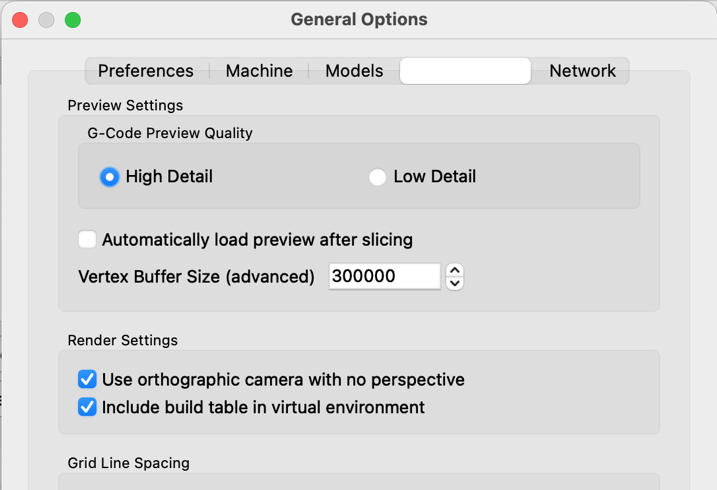
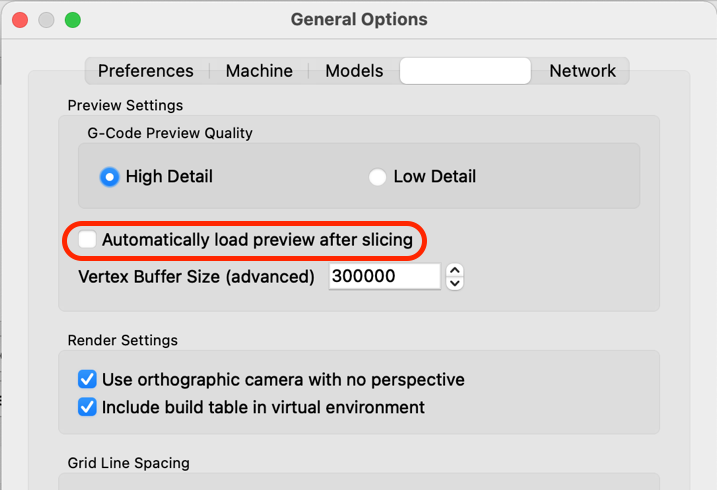
add some clues for tweaking image cropping

Changed region(s): [[0.0614, 0.4286, 0.6137, 0.551]]

diff --git a/README.md b/README.md
@@ -60,7 +60,7 @@ With [Slicer Thumbnails](https://plugins.octoprint.org/plugins/prusaslicerthumbn
 
 The thumbnail is captured from the Simplify3D application window when the sliced .gcode file **is saved**.
 
-If you prefer the non-sliced preview version, in Application **Preferences** in the *Visualization* tab, uncheck
+If you prefer the non-sliced preview version, in Application *Preferences* in the *Visualization* tab, uncheck
 
 - [ ] "Automatically load preview after slicing"
 
@@ -68,7 +68,9 @@ If you prefer the non-sliced preview version, in Application **Preferences** in 
 
 ### Customize crop size and position
 
-The image crop and dimension settings may be unique to the preview type and your macOS desktop setup. These are adjustable in the script. Look for the in the bash script for the section starting at the line `# Position the crop bounding box`
+The image crop and dimension settings may be unique to the preview type and your macOS desktop setup.
+
+These are adjustable in the script. Look for the in the bash script for the section starting at the line `# Position the crop bounding box`
 
 ## SEE ALSO
 
